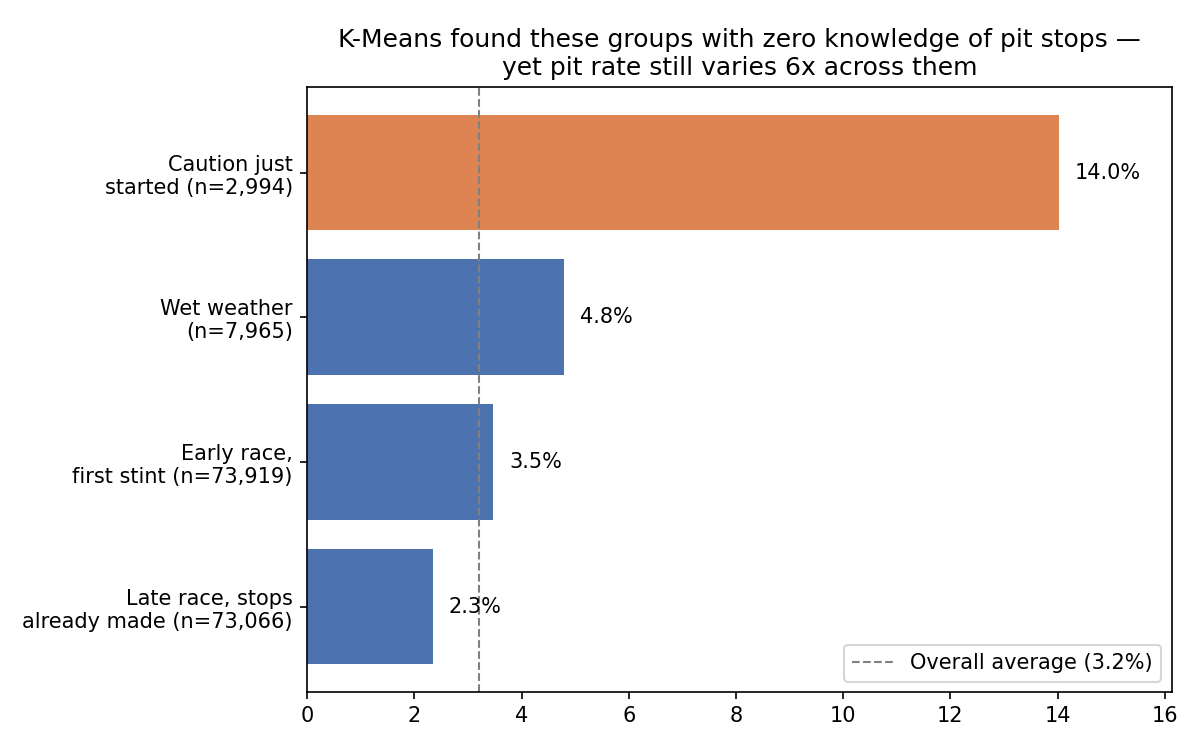
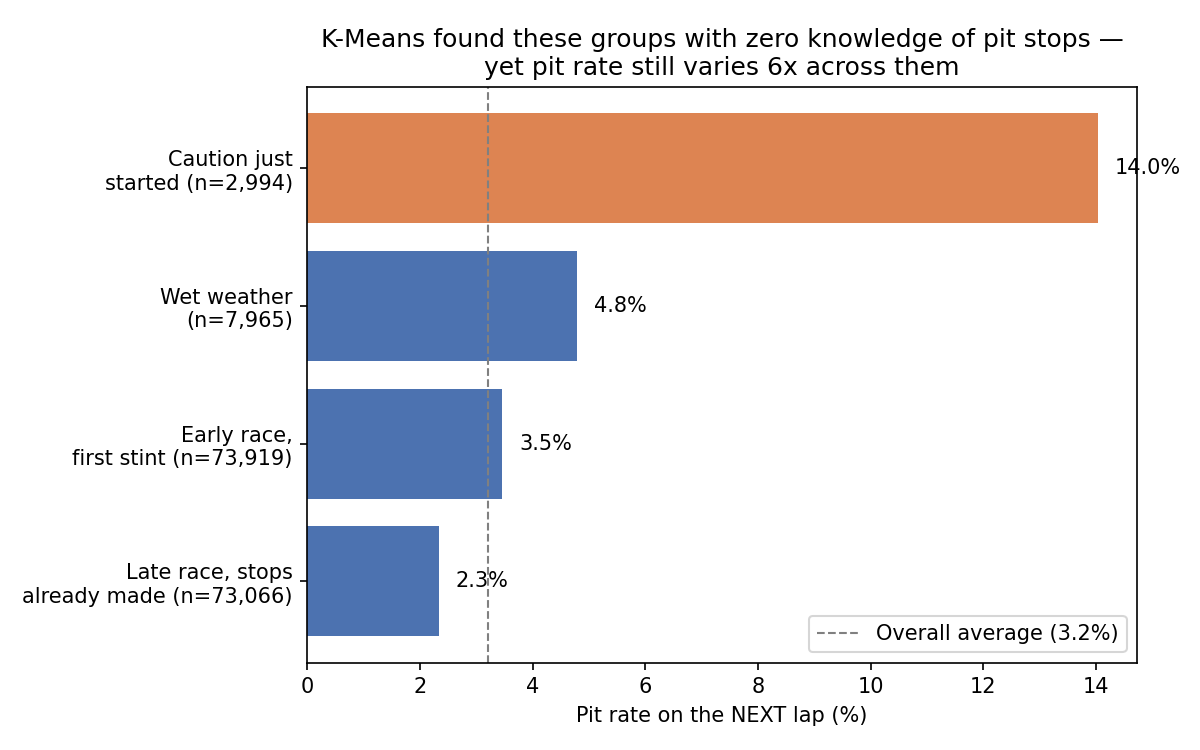
Add report figures and README

diff --git a/make_figures.py b/make_figures.py
@@ -183,7 +183,7 @@ bars = ax.barh(cluster_summary['label'], cluster_summary['pit_rate'] * 100, colo
 overall_rate = df['PitNextLap'].mean() * 100
 ax.axvline(overall_rate, color='gray', linestyle='--', linewidth=1,
           label='Overall average ({:.1f}%)'.format(overall_rate))
-ax.set_xlim(0, cluster_summary['pit_rate'].max() * 100 * 1.15)
+ax.set_xlabel('Pit rate on the NEXT lap (%)')
 ax.set_title('K-Means found these groups with zero knowledge of pit stops —\nyet pit rate still varies 6x across them')
 for bar, rate in zip(bars, cluster_summary['pit_rate'] * 100):
     ax.text(rate + 0.3, bar.get_y() + bar.get_height()/2, '{:.1f}%'.format(rate), va='center', fontsize=10)